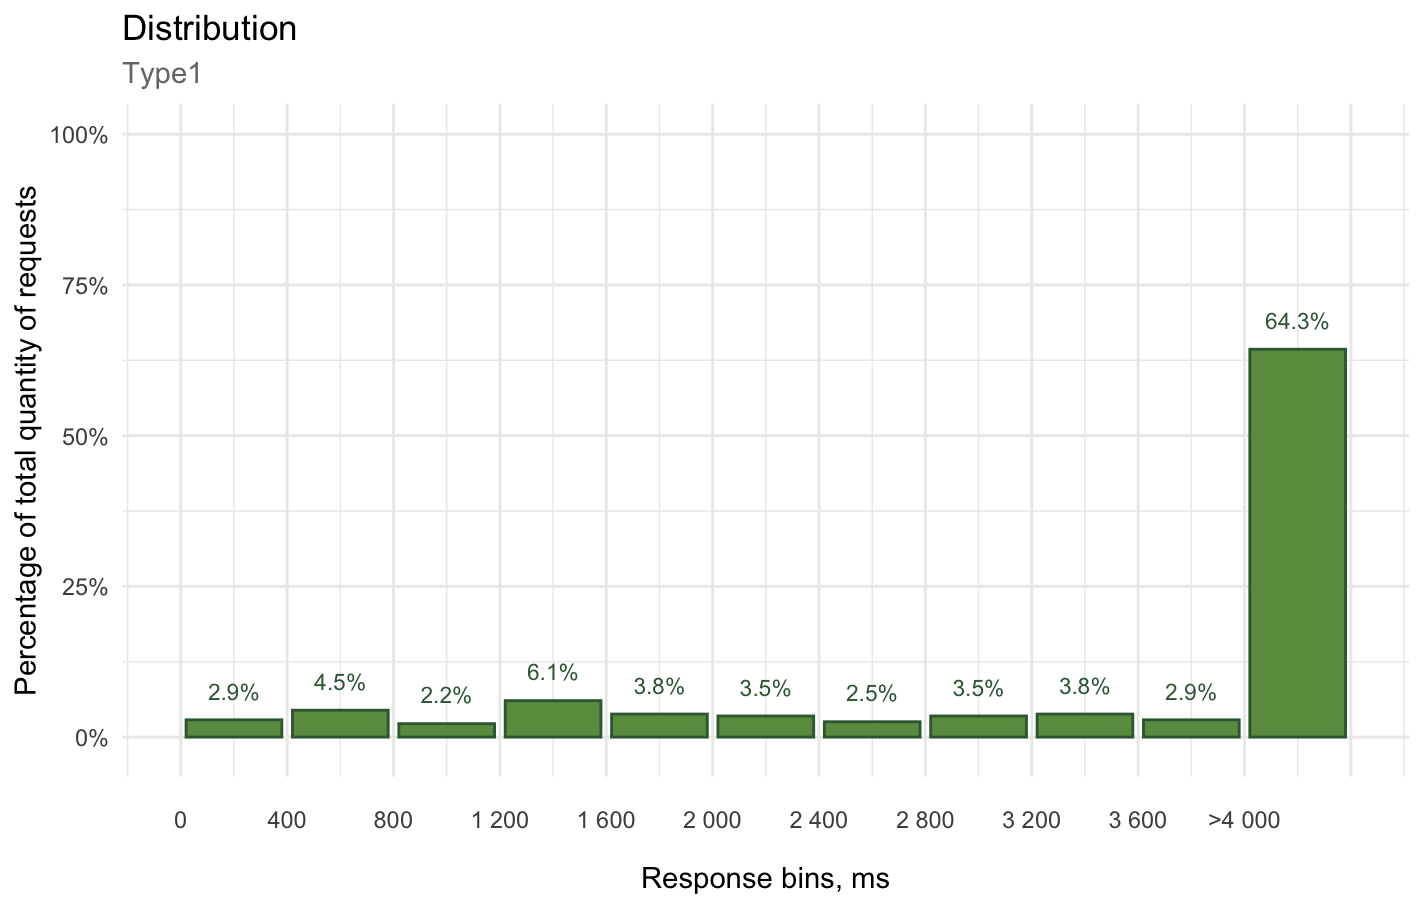
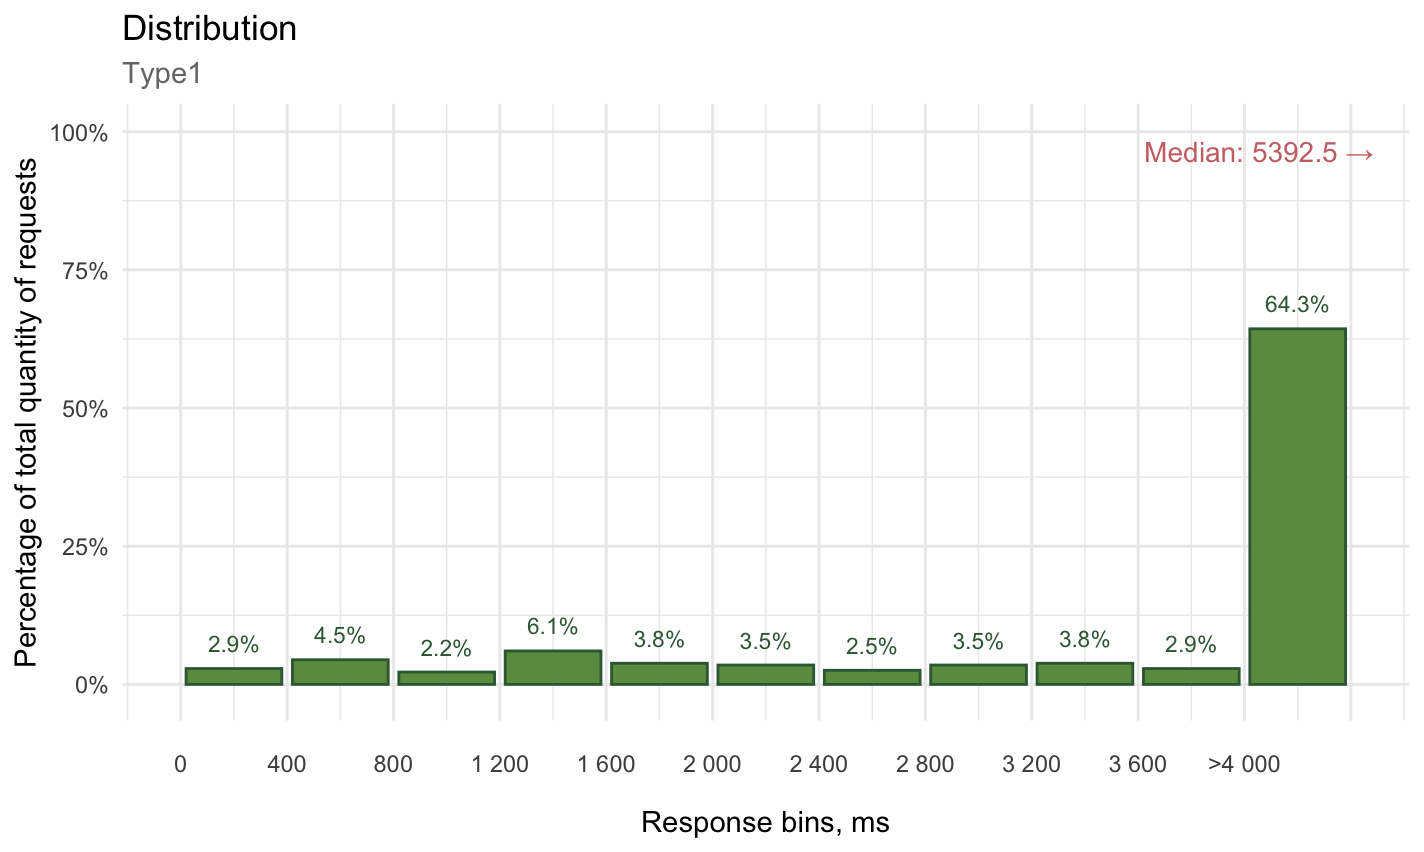
Adjustments in distribution, changed readme.

diff --git a/README.md b/README.md
@@ -50,3 +50,46 @@ Call `generate_candles_chart(your_data, name_of_your_label)`.
 #### Settings
 
 Use `####CHART SETTINGS####`
+
+------------------------------------------------------------------------
+
+## distributions
+
+Builds distributions which reflects
+
+#### Examples
+
+![](images/distrib_single.png) ![](images/distrib_compar.png)
+
+#### Data
+
+Input the file with the following columns:
+
+```         
+response,group
+1605,Login
+1034,GetTime
+93,Logout
+```
+
+Or use built-in data generation.
+
+#### Idea
+
+This is a slightly enhanced distribution diagram.
+
+The idea is to drill-down onto intervals everything that is lying inside the limit (potentially: specified SLA) and then everything that is higher than this limit.
+
+Comparison of such distributions was always the trickiest thing: putting one semi-transparent layer over other makes it hard to distinguish what is what. So for the comparison a pattern-applied bars are quite suitable for this goal, however not available in all the tools.
+
+As an addition, the statistics for median value are added (which can be for sure changed to any other statistics, like 95 percentile) and handled when median is out of bound of the main chart.
+
+#### Usage
+
+For single distribution: `distrib_single(data_original, your_request_type_to_filter, your_sla))`.
+
+For comparison distribution: `distrib_single(data_original, data_original_name_for_legend, data_comparison, data_comparison_name_for_legend, your_request_type_to_filter, your_sla))`.
+
+#### Settings
+
+Use `####CHART SETTINGS####`
